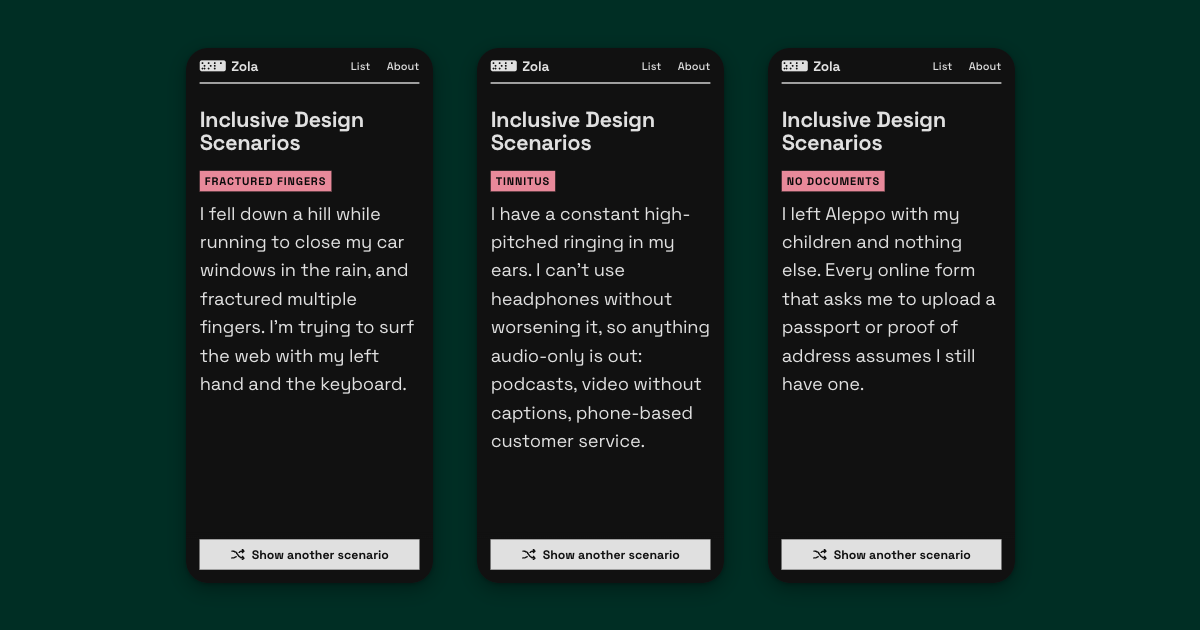
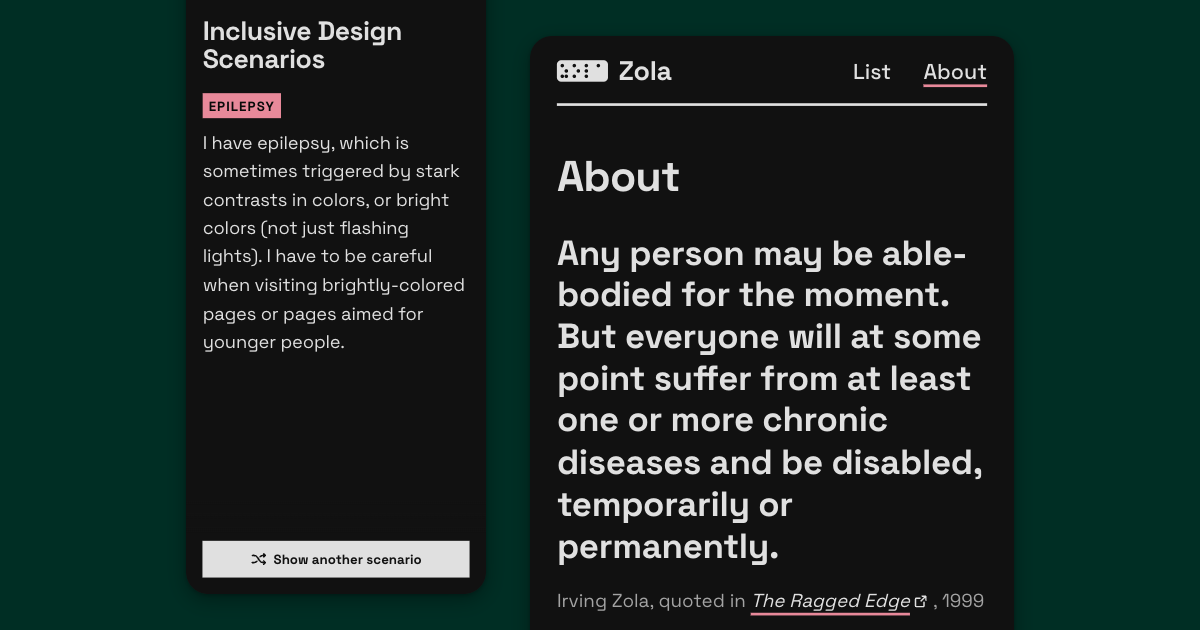
better cover image

Changed region(s): [[0.1542, 0.0, 0.8633, 1.0]]

diff --git a/src/content/scenarios/screen-reader.md b/src/content/scenarios/screen-reader.md
@@ -2,4 +2,4 @@
 title: Screen reader user
 ---
 
-I'm blind, and have been since birth. I've always used a screen reader, and always used a computer. I'm a programmer, and I'm better prepared to use the web than most of the others on this list.
+I'm blind, and have been since birth. I've always used a screen reader, and always used a computer. I'm a programmer, and I'm better prepared to use the web than most.

diff --git a/README.md b/README.md
@@ -1,4 +1,4 @@
-![Three phone screens showing scenarios from Inclusive Design Scenarios](public/og-image.png)
+![Two phone screens from Zola: an inclusive design scenario and the about page](public/og-image.png)
 
 # About
 
